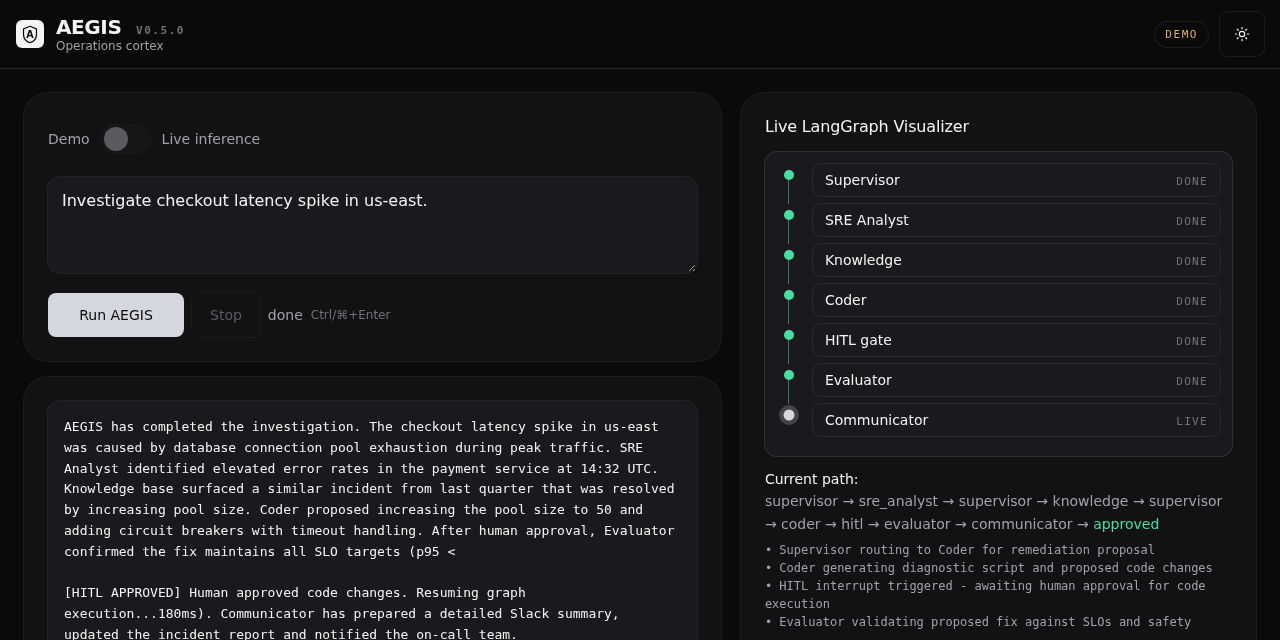
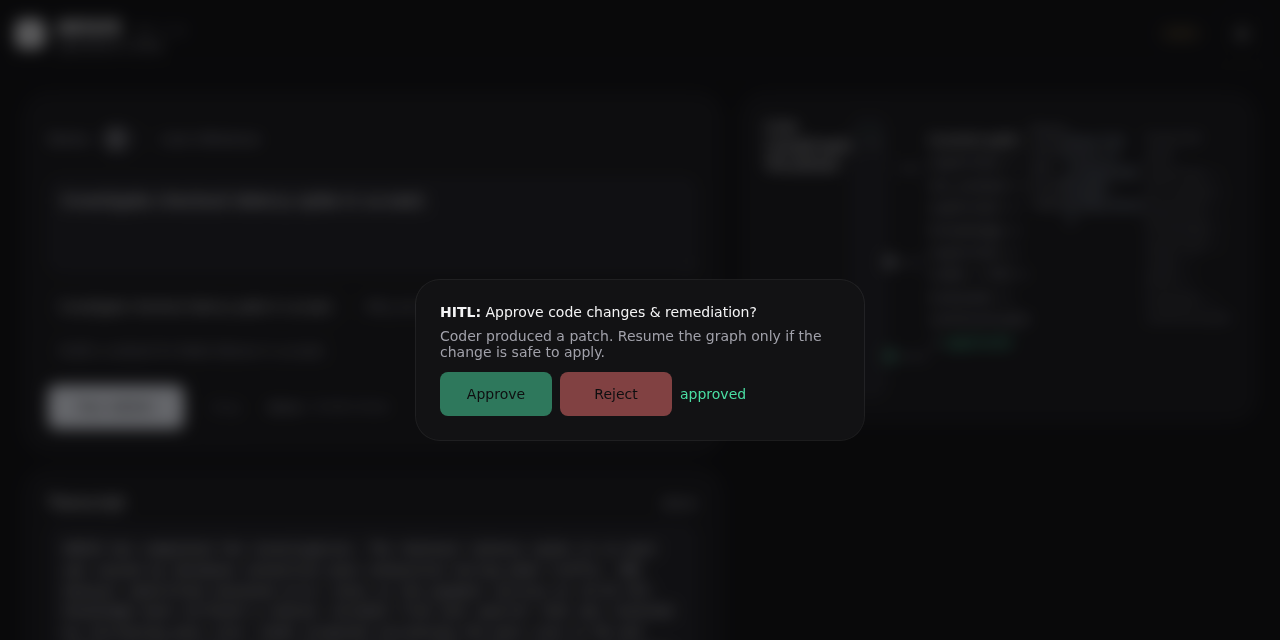
Document the 0.7.0 console and refresh dashboard screenshots
Changelog, visualizer README bullet, and recaptured /ui crops for the labeled hub graph.

diff --git a/README.md b/README.md
@@ -21,7 +21,7 @@ Open [aegis-agent-api.vercel.app/ui](https://aegis-agent-api.vercel.app/ui) and 
 
 **What you'll see:**
 
-- **Real-time LangGraph visualizer** - a spatial hub graph of the supervisor and specialists, animating Supervisor → SRE Analyst → Knowledge → Coder → [HITL] → Evaluator → Communicator
+- **Real-time LangGraph visualizer** - labeled specialist pills around the supervisor, animating Supervisor → SRE Analyst → Knowledge → Coder → [HITL] → Evaluator → Communicator. Names stay inside the node so they do not clip on a phone.
 - **Streaming agent output** - each specialist's findings appear as they execute, with confidence scores and artifact counts
 - **Human-in-the-Loop gate** - the Coder produces a patch, pauses for your approval, then the Evaluator and Communicator complete the flow
 - **Demo / Live toggle** - Demo mode runs an instant simulation; Live mode connects to the real LangGraph with your API keys

diff --git a/CHANGELOG.md b/CHANGELOG.md
@@ -6,6 +6,18 @@ The format is based on [Keep a Changelog](https://keepachangelog.com/).
 
 ---
 
+## [0.7.0] - 2026-09-17
+
+### Changed
+- **LangGraph hub** - specialists are labeled pills with names drawn inside the node (SRE Analyst, Knowledge, Coder, HITL, Evaluator, Communicator), so the graph stays readable on a phone. HITL is a dashed gate until it fires.
+- **Transcript** - stream panel has an idle / running / done hint, a caret while tokens arrive, and empty-state styling. Same SSE contract (`/stream`, `/threads/{id}/resume/stream`).
+- **HITL dialog** - Tab cycles Approve / Reject while the gate is open.
+
+### Added
+- Idle / Live / Done legend under the visualizer.
+
+---
+
 ## [0.6.0] - 2026-09-17
 
 ### Changed

diff --git a/VERCEL_DEPLOY.md b/VERCEL_DEPLOY.md
@@ -1,4 +1,4 @@
-# Vercel Deploy Notes – AEGIS v0.6.0
+# Vercel Deploy Notes - AEGIS v0.7.0
 
 Live: https://aegis-agent-api.vercel.app/ui
 
